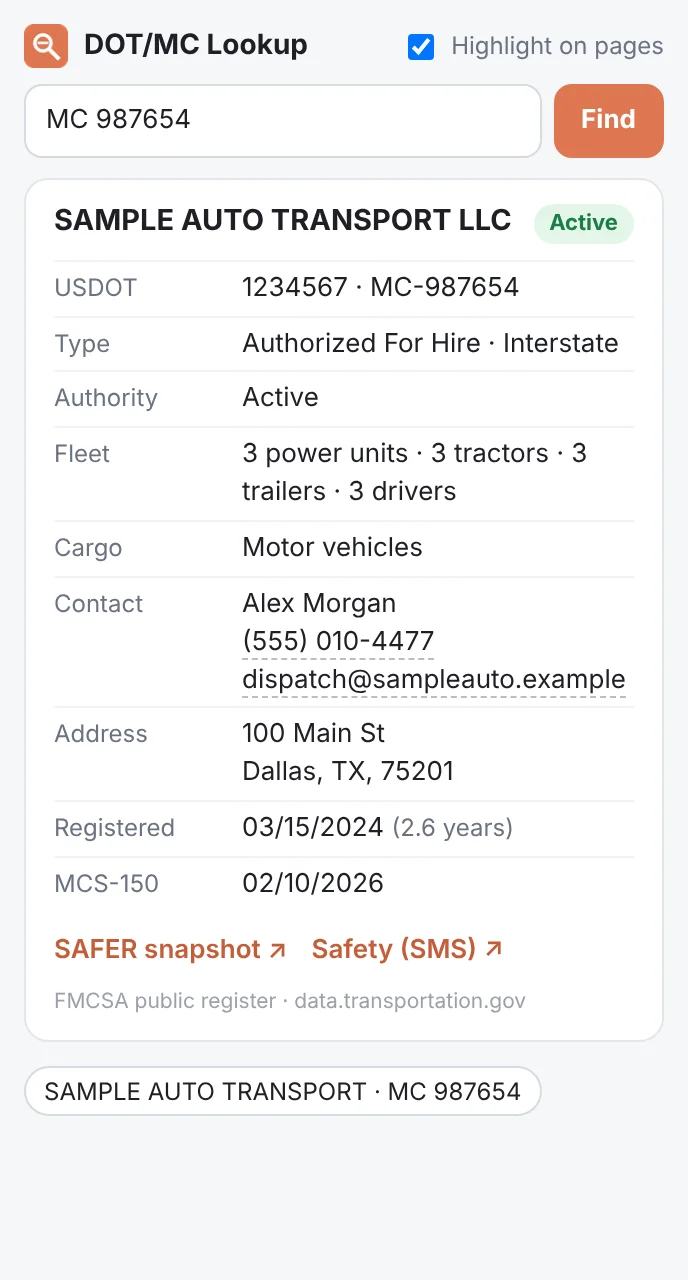
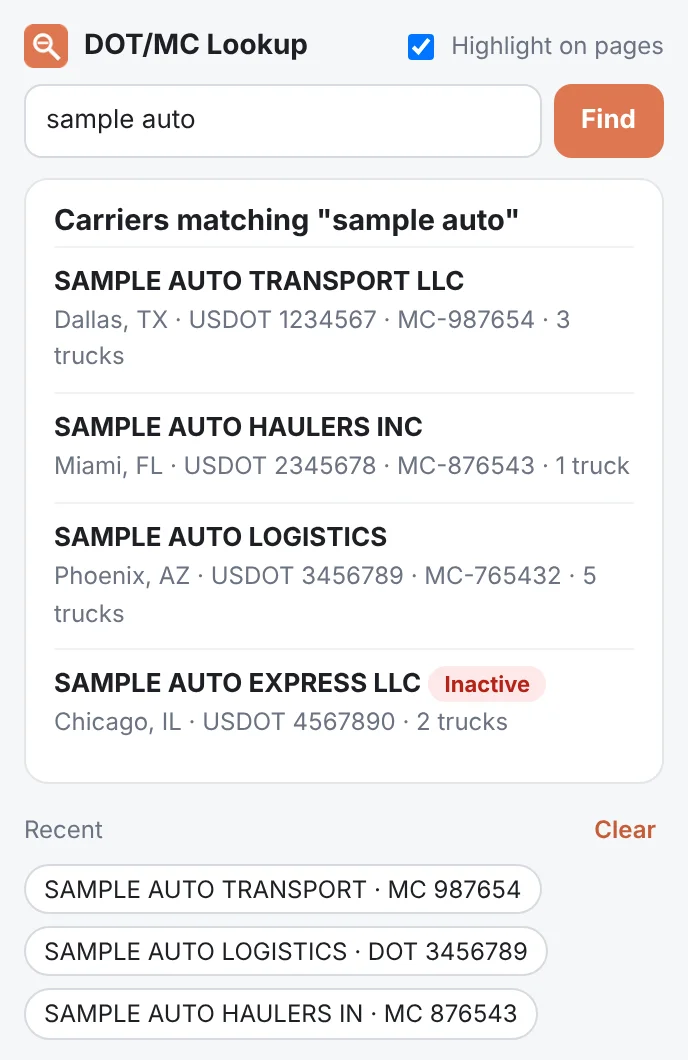
Add files via upload

diff --git a/index.html b/index.html
@@ -214,7 +214,7 @@
   <div class="navlinks">
     <a href="#services" data-nav="home">Services</a><a href="#work" data-nav="home">Work</a><a href="#process" data-nav="home">Process</a>
[1 lines of base64/hex data omitted]
-    <a href="#dot" class="hhTab dotTab" data-nav="dot"><img src="img/dot-icon.png" alt="">DOT/MC Lookup</a>
+    <a href="#dot" class="hhTab dotTab" data-nav="dot"><img src="dot-icon.png" alt="">DOT/MC Lookup</a>
     <a class="btn primary" href="#contact">Start a project</a>
   </div>
 </div></nav>
@@ -311,7 +311,7 @@
     <h1>Know the carrier <em>before you pick up the phone.</em></h1>
     <p class="lead">DOT/MC Lookup finds USDOT and MC numbers on any web page - load boards, broker emails, rate confirmations, carrier lists - and shows the carrier's official FMCSA profile in one click. No more copy, paste and search on SAFER.</p>
     <div class="ctas">
-      <a class="btn primary" href="downloads/dot-mc-lookup.zip" download>Download for Chrome</a>
+      <a class="btn primary" href="dot-mc-lookup.zip" download>Download for Chrome</a>
       <a class="btn ghost" href="#dot-install">How to install</a>
     </div>
     <div class="proof">
@@ -320,7 +320,7 @@
       <div><b>0</b><span>changes to the page</span></div>
     </div>
   </div>
-  <img class="shotMain" src="img/dot-hero.webp" alt="DOT/MC Lookup card showing a carrier's FMCSA profile over a rate confirmation" width="1000" height="1172">
+  <img class="shotMain" src="dot-hero.webp" alt="DOT/MC Lookup card showing a carrier's FMCSA profile over a rate confirmation" width="1000" height="1172">
 </div></header>
 
 <section id="dot-how"><div class="wrap">
@@ -335,11 +335,11 @@
 <section id="dot-shots" style="padding-top:20px"><div class="wrap">
   <div class="sechead"><span class="tag">Screenshots</span><h2>What you'll see</h2></div>
   <div class="shots">
-    <figure><img src="img/dot-card.webp" alt="Carrier card over a broker email" loading="lazy"><figcaption>Hover over a USDOT or MC number in an email or a rate confirmation - the carrier card opens right there.</figcaption></figure>
+    <figure><img src="dot-card.webp" alt="Carrier card over a broker email" loading="lazy"><figcaption>Hover over a USDOT or MC number in an email or a rate confirmation - the carrier card opens right there.</figcaption></figure>
     <div class="col">
-      <figure><img src="img/dot-popup.webp" alt="Search box in the toolbar popup" loading="lazy" style="max-width:300px;margin:0 auto"><figcaption>Or type a USDOT / MC number or a company name in the toolbar popup. Your last lookups stay one click away.</figcaption></figure>
+      <figure><img src="dot-popup.webp" alt="Search box in the toolbar popup" loading="lazy" style="max-width:300px;margin:0 auto"><figcaption>Search by USDOT, MC or company name in the toolbar popup. Recent lookups stay one click away - and "Clear" wipes them.</figcaption></figure>
     </div>
-    <figure style="grid-column:1/-1"><img src="img/dot-table.webp" alt="MC numbers highlighted in a table" loading="lazy"><figcaption>Numbers in tables are found by their column - and order numbers or ZIP codes are left alone.</figcaption></figure>
+    <figure style="grid-column:1/-1"><img src="dot-table.webp" alt="MC numbers highlighted in a table" loading="lazy"><figcaption>Numbers in tables are found by their column - and order numbers or ZIP codes are left alone.</figcaption></figure>
   </div>
   <p style="color:var(--text3);font-size:13px;margin-top:12px">Screenshots use a made-up sample carrier.</p>
 </div></section>
@@ -350,7 +350,7 @@
     <div><div class="ic">🔎</div><h3>Works everywhere</h3><p>Load boards, Gmail and Outlook on the web, broker portals, carrier lists - any regular web page.</p></div>
     <div><div class="ic">🪪</div><h3>Official data</h3><p>Straight from the FMCSA carrier register published by the US DOT - the same source as SAFER.</p></div>
     <div><div class="ic">✅</div><h3>Spot red flags fast</h3><p>Inactive status, no authority, a carrier registered two weeks ago - visible before you book.</p></div>
-    <div><div class="ic">🏢</div><h3>Search by company name</h3><p>No number on the page? Select the company name, right-click and choose "Look up carrier" - or type the name in the toolbar popup.</p></div>
+    <div><div class="ic">🏢</div><h3>Search by company name</h3><p>No number on the page? Hold Alt (Option on a Mac) and hover over the company name - an exact match opens its card. Right-click "Look up carrier" and the popup search work too.</p></div>
     <div><div class="ic">📋</div><h3>Copy in one tap</h3><p>Click the phone or email in the card to copy it. Links to SAFER and the FMCSA safety page included.</p></div>
     <div><div class="ic">🛡</div><h3>Private and light</h3><p>No account, no tracking. It only asks the FMCSA register about the number or name you look up.</p></div>
     <div><div class="ic">🧩</div><h3>Leaves pages alone</h3><p>Highlighting is drawn by the browser on top of the text, so sites keep working exactly as before.</p></div>
@@ -362,7 +362,7 @@
 <section id="dot-install" style="padding-top:20px"><div class="wrap">
   <div class="sechead"><span class="tag">Install</span><h2>Ready in a minute</h2><p>Until it's in the Chrome Web Store, add it like this:</p></div>
   <ol class="install">
-    <li><a href="downloads/dot-mc-lookup.zip" download style="color:var(--accent);font-weight:700">Download the zip</a> and unzip it to a folder that will stay (for example Documents).</li>
+    <li><a href="dot-mc-lookup.zip" download style="color:var(--accent);font-weight:700">Download the zip</a> and unzip it to a folder that will stay (for example Documents).</li>
     <li>Open <code>chrome://extensions</code> (Brave: <code>brave://extensions</code>, Edge: <code>edge://extensions</code>) and switch on <b>Developer mode</b>.</li>
     <li>Click <b>Load unpacked</b> and choose the <code>dot-mc-lookup</code> folder.</li>
     <li>Pin the orange magnifier to the toolbar and reload the page you work on.</li>
@@ -381,7 +381,7 @@
   </div>
 </div></section>
 
-<div class="cta"><h2>Stop copying numbers into SAFER.</h2><p>Free for dispatchers, brokers and carriers.</p><a class="btn primary" href="downloads/dot-mc-lookup.zip" download>Download for Chrome</a></div>
+<div class="cta"><h2>Stop copying numbers into SAFER.</h2><p>Free for dispatchers, brokers and carriers.</p><a class="btn primary" href="dot-mc-lookup.zip" download>Download for Chrome</a></div>
 </div>
 <div class="page" id="page-hh" hidden>
 <header class="hero"><div class="wrap">
